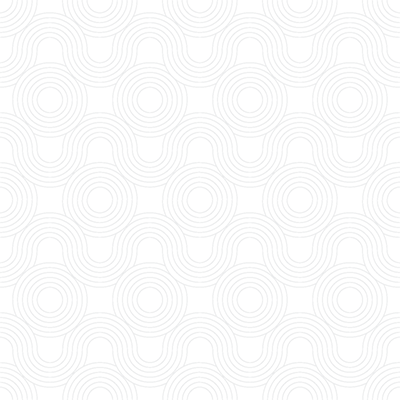
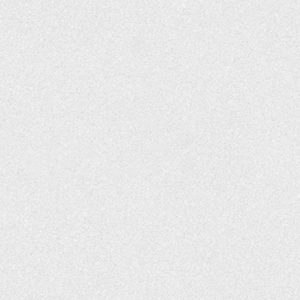
Some frontend improvements
Improves welcome text to help new players and tweaks the design. We
now use a better background texture and darken the nav bar to match.
This darker nav bar is a bit more striking then the washed out grey we
had before.

diff --git a/frontend/public/index.html b/frontend/public/index.html
@@ -4,7 +4,6 @@
     <meta charset="utf-8">
     <meta http-equiv="x-ua-compatible" content="ie=edge">
     <meta name="viewport" content="width=device-width, initial-scale=1, shrink-to-fit=no">
-    <meta name="theme-color" content="#000000">
     <!--
       manifest.json provides metadata used when your web app is added to the
       homescreen on Android. See https://developers.google.com/web/fundamentals/engage-and-retain/web-app-manifest/
@@ -23,7 +22,7 @@
     <link rel="shortcut icon" href="%PUBLIC_URL%/images/favicon.ico">
     <meta name="msapplication-TileColor" content="#00aba9">
     <meta name="msapplication-config" content="%PUBLIC_URL%/images/browserconfig.xml">
-    <meta name="theme-color" content="#000000">
+    <meta name="theme-color" content="#424242">
 
     <title>Quack Stanley</title>
 

diff --git a/frontend/src/index.js b/frontend/src/index.js
@@ -13,7 +13,6 @@ var app = Elm.Main.init({
 var savedGamesKey = "QS_SAVED_GAMES";
 
 app.ports.fetchSavedGames.subscribe(function() {
-    console.log("sending game to Elm");
     var existingGames = JSON.parse(localStorage.getItem(savedGamesKey)) || [];
     // clear out expired games
     var recentGames = filterExpired(existingGames);

diff --git a/frontend/src/main.css b/frontend/src/main.css
@@ -46,7 +46,7 @@ nav, .footer-color, #logo-container {
 }
 
 .game-nav {
-    background-color: #eeeeee;
+    background-color: #424242;
     margin-top: 28px;
     padding: 4px 0 6px 0;
     height: 47px;
